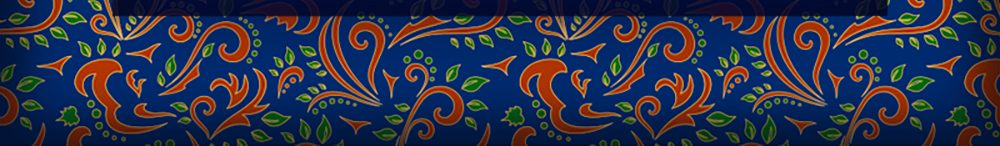
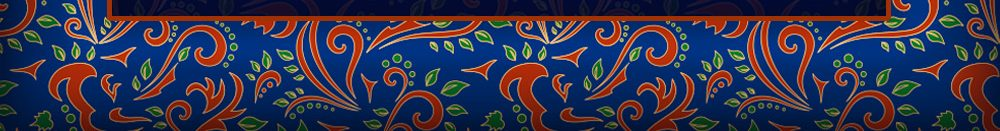
Background fixed

diff --git a/public/emails/victorianchristmas/index.html b/public/emails/victorianchristmas/index.html
@@ -20,6 +20,7 @@
   @media only screen and (max-width:620px) {
     .wrap { width:100% !important; }
     .fluid { width:100% !important; height:auto !important; }
+    .title { width:70% !important; height:auto !important; }
     .panel-pad { padding-left:16% !important; padding-right:16% !important; }
     .date { font-size:13px !important; letter-spacing:.3px !important; }
     .orn { width:18px !important; height:18px !important; }
@@ -41,21 +42,30 @@
 
       <table role="presentation" class="wrap" width="600" cellpadding="0" cellspacing="0" border="0" style="width:600px; max-width:600px;">
 
-        <!-- HEADER: border, manor engraving & script title -->
+        <!-- HEADER: border & manor engraving -->
         <tr>
           <td>
-            <img class="fluid" src="https://www.kgkestates.uk/emails/victorianchristmas/images/header.jpg" width="600" height="531"
-                 alt="You are warmly invited to a Victorian Christmas Celebration at Kildrummy Manor"
-                 style="width:600px; height:auto; color:#c5a868; font-family:Georgia, serif; font-size:22px; font-style:italic; text-align:center; background:#0a1150;">
+            <img class="fluid" src="https://www.kgkestates.uk/emails/victorianchristmas/images/header.jpg" width="600" height="273"
+                 alt="Kildrummy Manor"
+                 style="width:600px; height:auto; color:#c5a868; font-family:Georgia, serif; font-size:16px; text-align:center; background:#0a1150;">
           </td>
         </tr>
 
-        <!-- BODY: live text over the patterned panel -->
+        <!-- BODY: title + live text over the patterned panel -->
         <tr>
-          <td class="panel-pad" align="center" valign="top" height="489"
+          <td align="center" valign="top" height="747"
               background="https://www.kgkestates.uk/emails/victorianchristmas/images/body-bg.jpg"
               bgcolor="#0a1150"
-              style="background-color:#0a1150; background-image:url('https://www.kgkestates.uk/emails/victorianchristmas/images/body-bg.jpg'); background-size:100% 100%; background-repeat:no-repeat; background-position:center top; padding:20px 104px 30px 104px;">
+              style="background-color:#0a1150; background-image:url('https://www.kgkestates.uk/emails/victorianchristmas/images/body-bg.jpg'); background-size:100% 100%; background-repeat:no-repeat; background-position:center top; padding:0 0 34px 0;">
+
+            <!-- Script title -->
+            <img class="title" src="https://www.kgkestates.uk/emails/victorianchristmas/images/title.png" width="420" height="255"
+                 alt="You are warmly invited to a Victorian Christmas Celebration at Kildrummy Manor"
+                 style="display:block; margin:0 auto; width:420px; height:auto; color:#c5a868; font-family:Georgia, serif; font-size:24px; font-style:italic; line-height:34px; text-align:center;">
+
+            <table role="presentation" width="100%" cellpadding="0" cellspacing="0" border="0">
+              <tr>
+                <td class="panel-pad" align="center" style="padding:24px 104px 0 104px;">
 
             <!-- Date line with ornaments -->
             <table role="presentation" cellpadding="0" cellspacing="0" border="0" align="center">
@@ -103,13 +113,17 @@
               </tr>
             </table>
 
+                </td>
+              </tr>
+            </table>
+
           </td>
         </tr>
 
         <!-- FOOTER: bottom border -->
         <tr>
           <td>
-            <img class="fluid" src="https://www.kgkestates.uk/emails/victorianchristmas/images/footer.jpg" width="600" height="88" alt=""
+            <img class="fluid" src="https://www.kgkestates.uk/emails/victorianchristmas/images/footer.jpg" width="600" height="79" alt=""
                  style="width:600px; height:auto; background:#1d3a9a;">
           </td>
         </tr>

diff --git a/public/emails/victorianchristmas/thank-you.html b/public/emails/victorianchristmas/thank-you.html
@@ -14,17 +14,20 @@
   .panel { background: #0a1150 url('images/body-bg.jpg') center top / 100% 100% no-repeat; padding: 36px 13.5% 56px; text-align: center; }
   h1 { font-family: 'Montserrat', 'Helvetica Neue', Arial, sans-serif; font-size: 18px; letter-spacing: 1px; margin: 0 0 14px; }
   p { margin: 0 0 12px; }
+  .panel .title { display:block; width:100%; max-width:420px; height:auto; margin:0 auto 20px; }
+  .panel { padding-top:0 !important; }
 </style>
 </head>
 <body>
   <main class="card">
-    <img src="images/header.jpg" width="600" height="531" alt="Victorian Christmas Celebration at Kildrummy Manor">
+    <img src="images/header.jpg" width="600" height="273" alt="Victorian Christmas Celebration at Kildrummy Manor">
     <div class="panel">
+      <img class="title" src="images/title.png" width="420" height="255" alt="You are warmly invited to a Victorian Christmas Celebration at Kildrummy Manor">
       <h1>THANK YOU</h1>
       <p>Your RSVP has been received.</p>
       <p>Amanda or Fiona will be in touch with further details of the evening.</p>
     </div>
-    <img src="images/footer.jpg" width="600" height="88" alt="">
+    <img src="images/footer.jpg" width="600" height="79" alt="">
   </main>
 </body>
 </html>

diff --git a/public/emails/victorianchristmas/rsvp.html b/public/emails/victorianchristmas/rsvp.html
@@ -106,14 +106,17 @@
     .row { flex-direction: column; gap: 0; }
     h1 { font-size: 14px; }
   }
+  .panel .title { display:block; width:100%; max-width:420px; height:auto; margin:0 auto 20px; }
+  .panel { padding-top:0 !important; }
 </style>
 </head>
 <body>
   <main class="card">
-    <img src="images/header.jpg" width="600" height="531"
+    <img src="images/header.jpg" width="600" height="273"
          alt="Victorian Christmas Celebration at Kildrummy Manor">
 
     <div class="panel">
+      <img class="title" src="images/title.png" width="420" height="255" alt="You are warmly invited to a Victorian Christmas Celebration at Kildrummy Manor">
       <h1>DECEMBER 18<sup>th</sup> FROM 4 P.M.</h1>
       <p class="intro">Kindly reply by November 20<sup>th</sup>.<br>
         We'll follow up with further details of the evening.</p>
@@ -179,7 +182,7 @@
       </form>
     </div>
 
-    <img class="footer" src="images/footer.jpg" width="600" height="88" alt="">
+    <img class="footer" src="images/footer.jpg" width="600" height="79" alt="">
   </main>
 
 <script>
